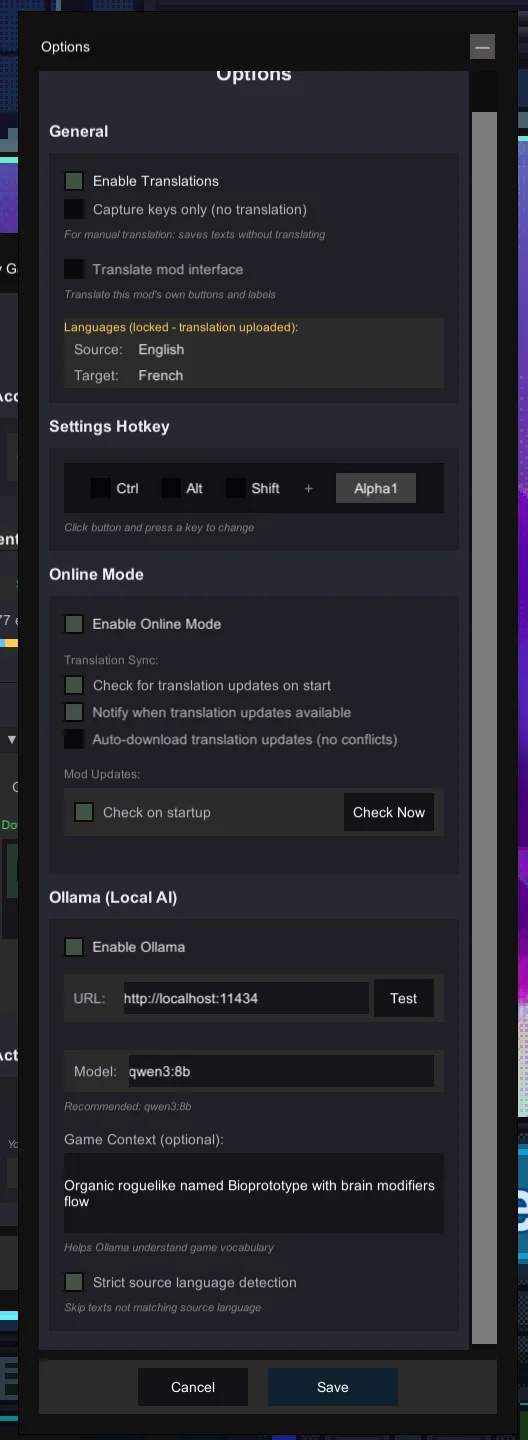
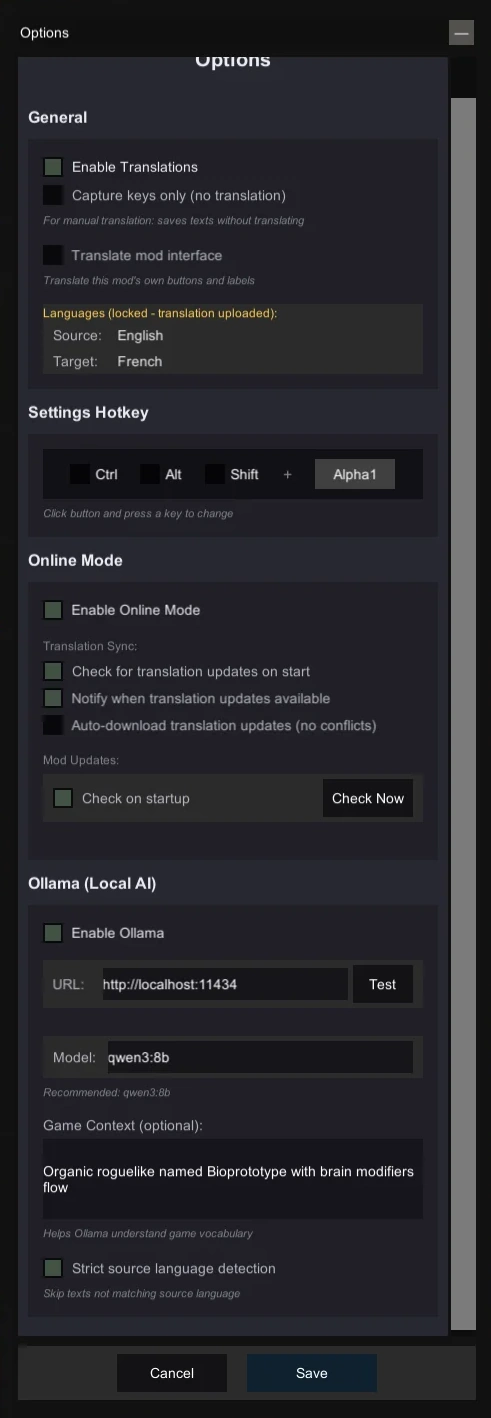
Serve screenshots as WebP only, drop the broken PNG fallback
The PNG copies were removed from public/images/screenshots, but each
<picture> still named one in its <img src>: a fallback pointing at a
missing file is a broken image, not a fallback. The <source> has no
purpose left either, so the markup goes back to a plain <img>.

Six captures were re-encoded smaller at the same time; their width and
height attributes are recalibrated on the real files so the space
reserved while the page loads stays correct.

diff --git a/resources/views/docs/index.blade.php b/resources/views/docs/index.blade.php
@@ -256,15 +256,12 @@
             <div class="bg-gray-800 rounded-lg p-6 border border-gray-700">
                 <p class="text-gray-300 mb-6">{{ __('docs.whatis.pitch') }}</p>
                 <figure class="mb-6 w-full flex flex-col items-center justify-center">
-                    <picture>
-                        <source srcset="{{ asset('images/screenshots/WebBrowse.webp') }}" type="image/webp">
-                        <img src="{{ asset('images/screenshots/WebBrowse.png') }}"
-                             alt="{{ __('docs.shot.browse_alt') }}"
-                             class="doc-img doc-img-web block mx-auto"
-                             width="1400" height="841"
-                             loading="lazy"
-                             data-zoomable>
-                    </picture>
+                    <img src="{{ asset('images/screenshots/WebBrowse.webp') }}"
+                         alt="{{ __('docs.shot.browse_alt') }}"
+                         class="doc-img doc-img-web block mx-auto"
+                         width="1400" height="841"
+                         loading="lazy"
+                         data-zoomable>
                     <figcaption class="text-sm text-gray-400 mt-2 text-center">{{ __('docs.shot.browse_caption') }}</figcaption>
                 </figure>
 
@@ -337,15 +334,12 @@
             <div class="bg-gray-800 rounded-lg p-6 border border-gray-700">
                 <p class="text-gray-300 mb-6">{{ __('docs.quick_start.intro') }}</p>
                 <figure class="mb-6 w-full flex flex-col items-center justify-center">
-                    <picture>
-                        <source srcset="{{ asset('images/screenshots/WebGamePage.webp') }}" type="image/webp">
-                        <img src="{{ asset('images/screenshots/WebGamePage.png') }}"
-                             alt="{{ __('docs.shot.game_alt') }}"
-                             class="doc-img doc-img-web block mx-auto"
-                             width="1390" height="840"
-                             loading="lazy"
-                             data-zoomable>
-                    </picture>
+                    <img src="{{ asset('images/screenshots/WebGamePage.webp') }}"
+                         alt="{{ __('docs.shot.game_alt') }}"
+                         class="doc-img doc-img-web block mx-auto"
+                         width="1390" height="840"
+                         loading="lazy"
+                         data-zoomable>
                     <figcaption class="text-sm text-gray-400 mt-2 text-center">{{ __('docs.shot.game_caption') }}</figcaption>
                 </figure>
 
@@ -585,15 +579,11 @@
 
                 <!-- Wizard Screenshot -->
                 <figure class="mb-6 w-full flex flex-col items-center justify-center">
-                    <picture>
-                        <source srcset="{{ asset('images/screenshots/ModWizard1.webp') }}" type="image/webp">
-                        <img src="{{ asset('images/screenshots/ModWizard1.png') }}"
-                             alt="{{ __('docs.wizard_screenshot_alt') }}"
-                             class="doc-img doc-img-mod block mx-auto"
-                             style="max-width: 500px;"
-                             width="551" height="434"
-                             data-zoomable>
-                    </picture>
+                    <img src="{{ asset('images/screenshots/ModWizard1.webp') }}"
+                         alt="{{ __('docs.wizard_screenshot_alt') }}"
+                         class="doc-img doc-img-mod block mx-auto"
+                         width="519" height="396"
+                         data-zoomable>
                     <figcaption class="text-sm text-gray-400 mt-2 text-center">{{ __('docs.wizard_caption') }}</figcaption>
                 </figure>
 
@@ -640,14 +630,11 @@
             <div class="bg-gray-800 rounded-lg p-6 border border-gray-700 mb-4">
                 <p class="text-gray-300 mb-4">{{ __('docs.editing.intro') }}</p>
                 <figure class="text-center">
-                    <picture>
-                        <source srcset="{{ asset('images/screenshots/ModToolsPanel.webp') }}" type="image/webp">
-                        <img src="{{ asset('images/screenshots/ModToolsPanel.png') }}"
-                             alt="{{ __('docs.editing.mod_tools_alt') }}"
-                             class="doc-img doc-img-tall mx-auto"
-                             width="1155" height="1231"
-                             data-zoomable>
-                    </picture>
+                    <img src="{{ asset('images/screenshots/ModToolsPanel.webp') }}"
+                         alt="{{ __('docs.editing.mod_tools_alt') }}"
+                         class="doc-img doc-img-tall mx-auto"
+                         width="751" height="1132"
+                         data-zoomable>
                     <figcaption class="text-sm text-gray-400 mt-2">{{ __('docs.editing.mod_tools_caption') }}</figcaption>
                 </figure>
             </div>
@@ -665,14 +652,11 @@
                         <li>{{ __('docs.editing.text_editor_step3') }}</li>
                     </ol>
                     <figure class="text-center">
-                        <picture>
-                            <source srcset="{{ asset('images/screenshots/ModTextEditor.webp') }}" type="image/webp">
-                            <img src="{{ asset('images/screenshots/ModTextEditor.png') }}"
-                                 alt="{{ __('docs.editing.text_editor_alt') }}"
-                                 class="doc-img doc-img-tall mx-auto"
-                                 width="868" height="1175"
-                                 data-zoomable>
-                        </picture>
+                        <img src="{{ asset('images/screenshots/ModTextEditor.webp') }}"
+                             alt="{{ __('docs.editing.text_editor_alt') }}"
+                             class="doc-img doc-img-tall mx-auto"
+                             width="661" height="1049"
+                             data-zoomable>
                         <figcaption class="text-sm text-gray-400 mt-2">{{ __('docs.editing.text_editor_caption') }}</figcaption>
                     </figure>
                 </div>
@@ -721,25 +705,19 @@
 
                 <div class="grid md:grid-cols-3 gap-6 mb-4 items-center">
                     <figure class="text-center">
-                        <picture>
-                            <source srcset="{{ asset('images/screenshots/ModBrowserSessionActive.webp') }}" type="image/webp">
-                            <img src="{{ asset('images/screenshots/ModBrowserSessionActive.png') }}"
-                                 alt="{{ __('docs.editing.session_active_alt') }}"
-                                 class="doc-img doc-img-tall mx-auto"
-                                 width="969" height="1102"
-                                 data-zoomable>
-                        </picture>
+                        <img src="{{ asset('images/screenshots/ModBrowserSessionActive.webp') }}"
+                             alt="{{ __('docs.editing.session_active_alt') }}"
+                             class="doc-img doc-img-tall mx-auto"
+                             width="821" height="1078"
+                             data-zoomable>
                         <figcaption class="text-sm text-gray-400 mt-2">{{ __('docs.editing.session_active_caption') }}</figcaption>
                     </figure>
                     <figure class="md:col-span-2">
-                        <picture>
-                            <source srcset="{{ asset('images/screenshots/WebLiveEdit.webp') }}" type="image/webp">
-                            <img src="{{ asset('images/screenshots/WebLiveEdit.png') }}"
-                                 alt="{{ __('docs.editing.live_edit_alt') }}"
-                                 class="doc-img doc-img-web"
-                                 width="1228" height="1122"
-                                 data-zoomable>
-                        </picture>
+                        <img src="{{ asset('images/screenshots/WebLiveEdit.webp') }}"
+                             alt="{{ __('docs.editing.live_edit_alt') }}"
+                             class="doc-img doc-img-web"
+                             width="1228" height="1122"
+                             data-zoomable>
                         <figcaption class="text-center text-sm text-gray-400 mt-2">{{ __('docs.editing.live_edit_caption') }}</figcaption>
                     </figure>
                 </div>
@@ -831,15 +809,12 @@
                     <li>{{ __('docs.collaboration.workflow3') }}</li>
                     <li>{{ __('docs.collaboration.workflow4') }}</li>
                 <figure class="mb-6 w-full flex flex-col items-center justify-center">
-                    <picture>
-                        <source srcset="{{ asset('images/screenshots/WebMerge.webp') }}" type="image/webp">
-                        <img src="{{ asset('images/screenshots/WebMerge.png') }}"
-                             alt="{{ __('docs.shot.merge_alt') }}"
-                             class="doc-img doc-img-web block mx-auto"
-                             width="1389" height="841"
-                             loading="lazy"
-                             data-zoomable>
-                    </picture>
+                    <img src="{{ asset('images/screenshots/WebMerge.webp') }}"
+                         alt="{{ __('docs.shot.merge_alt') }}"
+                         class="doc-img doc-img-web block mx-auto"
+                         width="1389" height="841"
+                         loading="lazy"
+                         data-zoomable>
                     <figcaption class="text-sm text-gray-400 mt-2 text-center">{{ __('docs.shot.merge_caption') }}</figcaption>
                 </figure>
                 </ol>
@@ -847,15 +822,12 @@
                 <p class="text-gray-300 mb-4">{{ __('docs.card.intro') }}</p>
 
                 <figure class="mb-6 w-full flex flex-col items-center justify-center">
-                    <picture>
-                        <source srcset="{{ asset('images/screenshots/WebTranslationCard.webp') }}" type="image/webp">
-                        <img src="{{ asset('images/screenshots/WebTranslationCard.png') }}"
-                             alt="{{ __('docs.card.alt') }}"
-                             class="doc-img doc-img-web block mx-auto"
-                             width="1232" height="202"
-                             loading="lazy"
-                             data-zoomable>
-                    </picture>
+                    <img src="{{ asset('images/screenshots/WebTranslationCard.webp') }}"
+                         alt="{{ __('docs.card.alt') }}"
+                         class="doc-img doc-img-web block mx-auto"
+                         width="1232" height="202"
+                         loading="lazy"
+                         data-zoomable>
                     <figcaption class="text-sm text-gray-400 mt-2 text-center">{{ __('docs.card.caption') }}</figcaption>
                 </figure>
 
@@ -890,15 +862,12 @@
                 </h3>
                 <p class="text-gray-300 mb-4">{{ __('docs.collaboration.upload_intro') }}</p>
                 <figure class="mb-6 w-full flex flex-col items-center justify-center">
-                    <picture>
-                        <source srcset="{{ asset('images/screenshots/WebUpload.webp') }}" type="image/webp">
-                        <img src="{{ asset('images/screenshots/WebUpload.png') }}"
-                             alt="{{ __('docs.shot.upload_alt') }}"
-                             class="doc-img doc-img-web block mx-auto"
-                             width="1400" height="841"
-                             loading="lazy"
-                             data-zoomable>
-                    </picture>
+                    <img src="{{ asset('images/screenshots/WebUpload.webp') }}"
+                         alt="{{ __('docs.shot.upload_alt') }}"
+                         class="doc-img doc-img-web block mx-auto"
+                         width="1400" height="841"
+                         loading="lazy"
+                         data-zoomable>
                     <figcaption class="text-sm text-gray-400 mt-2 text-center">{{ __('docs.shot.upload_caption') }}</figcaption>
                 </figure>
 
@@ -931,14 +900,11 @@
 
                 <!-- Merge Screenshot -->
                 <figure class="mb-4">
-                    <picture>
-                        <source srcset="{{ asset('images/screenshots/WebHumanEditAndValidation.webp') }}" type="image/webp">
-                        <img src="{{ asset('images/screenshots/WebHumanEditAndValidation.png') }}"
-                             alt="{{ __('docs.merge_screenshot_alt') }}"
-                             class="doc-img doc-img-web"
-                             width="1421" height="1276"
-                             data-zoomable>
-                    </picture>
+                    <img src="{{ asset('images/screenshots/WebHumanEditAndValidation.webp') }}"
+                         alt="{{ __('docs.merge_screenshot_alt') }}"
+                         class="doc-img doc-img-web"
+                         width="1421" height="1276"
+                         data-zoomable>
                     <figcaption class="text-center text-sm text-gray-400 mt-2">{{ __('docs.merge_caption') }}</figcaption>
                 </figure>
 
@@ -976,25 +942,19 @@
                 <!-- Screenshots side by side -->
                 <div class="grid md:grid-cols-2 gap-4 mb-6">
                     <figure class="text-center">
-                        <picture>
-                            <source srcset="{{ asset('images/screenshots/ModConnect.webp') }}" type="image/webp">
-                            <img src="{{ asset('images/screenshots/ModConnect.png') }}"
-                                 alt="{{ __('docs.sync.mod_connect_alt') }}"
-                                 class="doc-img doc-img-mod mx-auto"
-                                 width="823" height="734"
-                                 data-zoomable>
-                        </picture>
+                        <img src="{{ asset('images/screenshots/ModConnect.webp') }}"
+                             alt="{{ __('docs.sync.mod_connect_alt') }}"
+                             class="doc-img doc-img-mod mx-auto"
+                             width="823" height="734"
+                             data-zoomable>
                         <figcaption class="text-sm text-gray-400 mt-2">{{ __('docs.sync.mod_connect_caption') }}</figcaption>
                     </figure>
                     <figure class="text-center">
-                        <picture>
-                            <source srcset="{{ asset('images/screenshots/WebConnect.webp') }}" type="image/webp">
-                            <img src="{{ asset('images/screenshots/WebConnect.png') }}"
-                                 alt="{{ __('docs.sync.web_connect_alt') }}"
-                                 class="doc-img doc-img-web"
-                                 width="617" height="583"
-                                 data-zoomable>
-                        </picture>
+                        <img src="{{ asset('images/screenshots/WebConnect.webp') }}"
+                             alt="{{ __('docs.sync.web_connect_alt') }}"
+                             class="doc-img doc-img-web"
+                             width="617" height="583"
+                             data-zoomable>
                         <figcaption class="text-sm text-gray-400 mt-2">{{ __('docs.sync.web_connect_caption') }}</figcaption>
                     </figure>
                 </div>
@@ -1058,15 +1018,12 @@
             <div class="bg-gray-800 rounded-lg p-6 border border-gray-700">
                 <p class="text-gray-300 mb-2">{{ __('docs.quality_system.intro') }}</p>
                 <figure class="mb-6 w-full flex flex-col items-center justify-center">
-                    <picture>
-                        <source srcset="{{ asset('images/screenshots/WebMyTranslations.webp') }}" type="image/webp">
-                        <img src="{{ asset('images/screenshots/WebMyTranslations.png') }}"
-                             alt="{{ __('docs.shot.mine_alt') }}"
-                             class="doc-img doc-img-web block mx-auto"
-                             width="1400" height="841"
-                             loading="lazy"
-                             data-zoomable>
-                    </picture>
+                    <img src="{{ asset('images/screenshots/WebMyTranslations.webp') }}"
+                         alt="{{ __('docs.shot.mine_alt') }}"
+                         class="doc-img doc-img-web block mx-auto"
+                         width="1400" height="841"
+                         loading="lazy"
+                         data-zoomable>
                     <figcaption class="text-sm text-gray-400 mt-2 text-center">{{ __('docs.shot.mine_caption') }}</figcaption>
                 </figure>
                 {{-- The tags and the formulas that read them were two sections apart with nothing
@@ -1236,27 +1193,21 @@ c = 0.8 → 1.0</pre>
 
                 <div class="grid md:grid-cols-2 gap-6">
                     <figure class="text-center">
-                        <picture>
-                            <source srcset="{{ asset('images/screenshots/ModOptionsTranslationAi.webp') }}" type="image/webp">
-                            <img src="{{ asset('images/screenshots/ModOptionsTranslationAi.png') }}"
-                                 alt="{{ __('docs.config.gui_ai_alt') }}"
-                                 class="doc-img doc-img-tall mx-auto"
-                                 width="579" height="916"
-                                 loading="lazy"
-                                 data-zoomable>
-                        </picture>
+                        <img src="{{ asset('images/screenshots/ModOptionsTranslationAi.webp') }}"
+                             alt="{{ __('docs.config.gui_ai_alt') }}"
+                             class="doc-img doc-img-tall mx-auto"
+                             width="579" height="916"
+                             loading="lazy"
+                             data-zoomable>
                         <figcaption class="text-sm text-gray-400 mt-2">{{ __('docs.config.gui_ai_caption') }}</figcaption>
                     </figure>
                     <figure class="text-center">
-                        <picture>
-                            <source srcset="{{ asset('images/screenshots/ModOptionsTranslationTools.webp') }}" type="image/webp">
-                            <img src="{{ asset('images/screenshots/ModOptionsTranslationTools.png') }}"
-                                 alt="{{ __('docs.config.gui_tools_alt') }}"
-                                 class="doc-img doc-img-tall mx-auto"
-                                 width="575" height="673"
-                                 loading="lazy"
-                                 data-zoomable>
-                        </picture>
+                        <img src="{{ asset('images/screenshots/ModOptionsTranslationTools.webp') }}"
+                             alt="{{ __('docs.config.gui_tools_alt') }}"
+                             class="doc-img doc-img-tall mx-auto"
+                             width="575" height="673"
+                             loading="lazy"
+                             data-zoomable>
                         <figcaption class="text-sm text-gray-400 mt-2">{{ __('docs.config.gui_tools_caption') }}</figcaption>
                     </figure>
                 </div>

diff --git a/resources/views/home.blade.php b/resources/views/home.blade.php
@@ -187,15 +187,12 @@
                 </ul>
                 <!-- Screenshot -->
                 <div class="mt-4 rounded-lg overflow-hidden border border-gray-700">
-                    <picture>
-                        <source srcset="{{ asset('images/screenshots/ModWizard1.webp') }}" type="image/webp">
-                        <img src="{{ asset('images/screenshots/ModWizard1.png') }}"
-                             alt="{{ __('home.mod_screenshot_alt') }}"
-                             class="w-full h-auto cursor-zoom-in"
-                             width="551" height="434"
-                             loading="lazy"
-                             data-zoomable>
-                    </picture>
+                    <img src="{{ asset('images/screenshots/ModWizard1.webp') }}"
+                         alt="{{ __('home.mod_screenshot_alt') }}"
+                         class="w-full h-auto cursor-zoom-in"
+                         width="519" height="396"
+                         loading="lazy"
+                         data-zoomable>
                 </div>
             </div>
 
@@ -305,15 +302,12 @@
                 </ul>
                 <!-- Screenshot -->
                 <div class="mt-4 rounded-lg overflow-hidden border border-gray-700">
-                    <picture>
-                        <source srcset="{{ asset('images/screenshots/WebHumanEditAndValidation.webp') }}" type="image/webp">
-                        <img src="{{ asset('images/screenshots/WebHumanEditAndValidation.png') }}"
-                             alt="{{ __('home.website_screenshot_alt') }}"
-                             class="w-full h-auto cursor-zoom-in"
-                             width="1421" height="1276"
-                             loading="lazy"
-                             data-zoomable>
-                    </picture>
+                    <img src="{{ asset('images/screenshots/WebHumanEditAndValidation.webp') }}"
+                         alt="{{ __('home.website_screenshot_alt') }}"
+                         class="w-full h-auto cursor-zoom-in"
+                         width="1421" height="1276"
+                         loading="lazy"
+                         data-zoomable>
                 </div>
             </div>
         </div>
